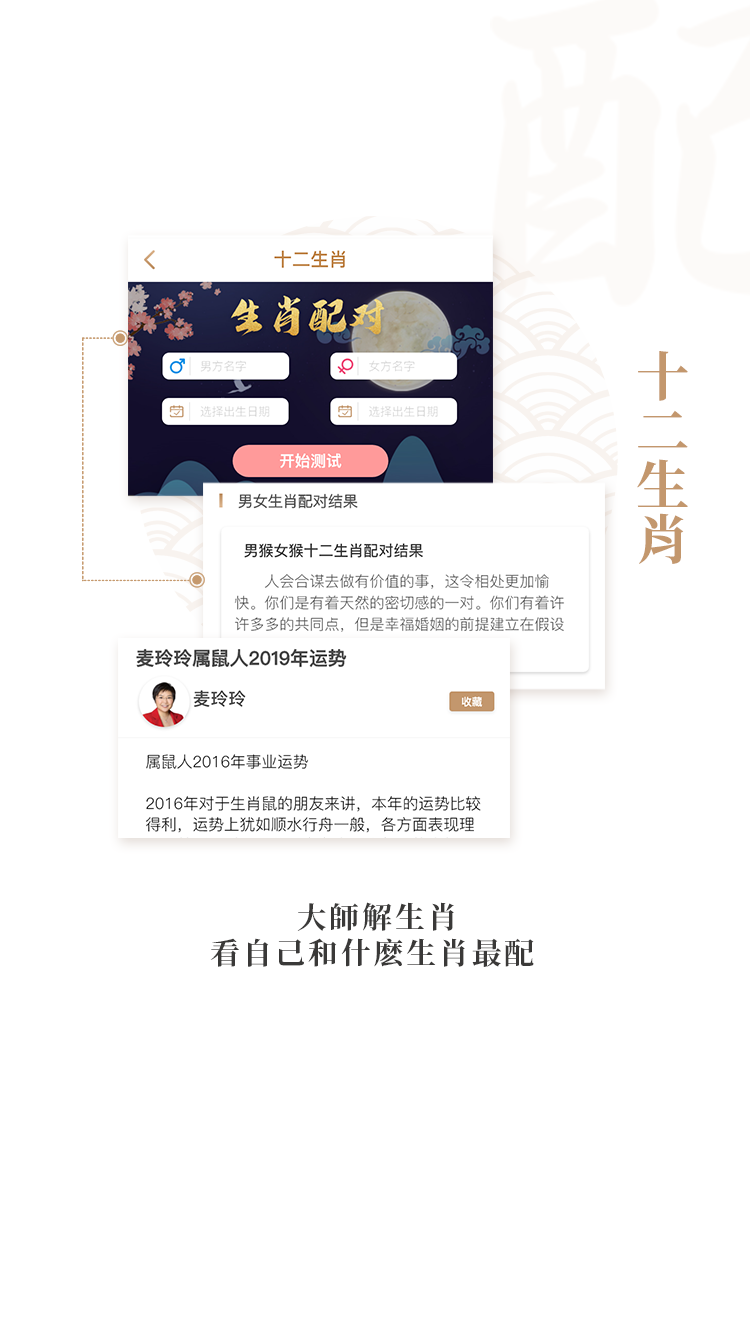
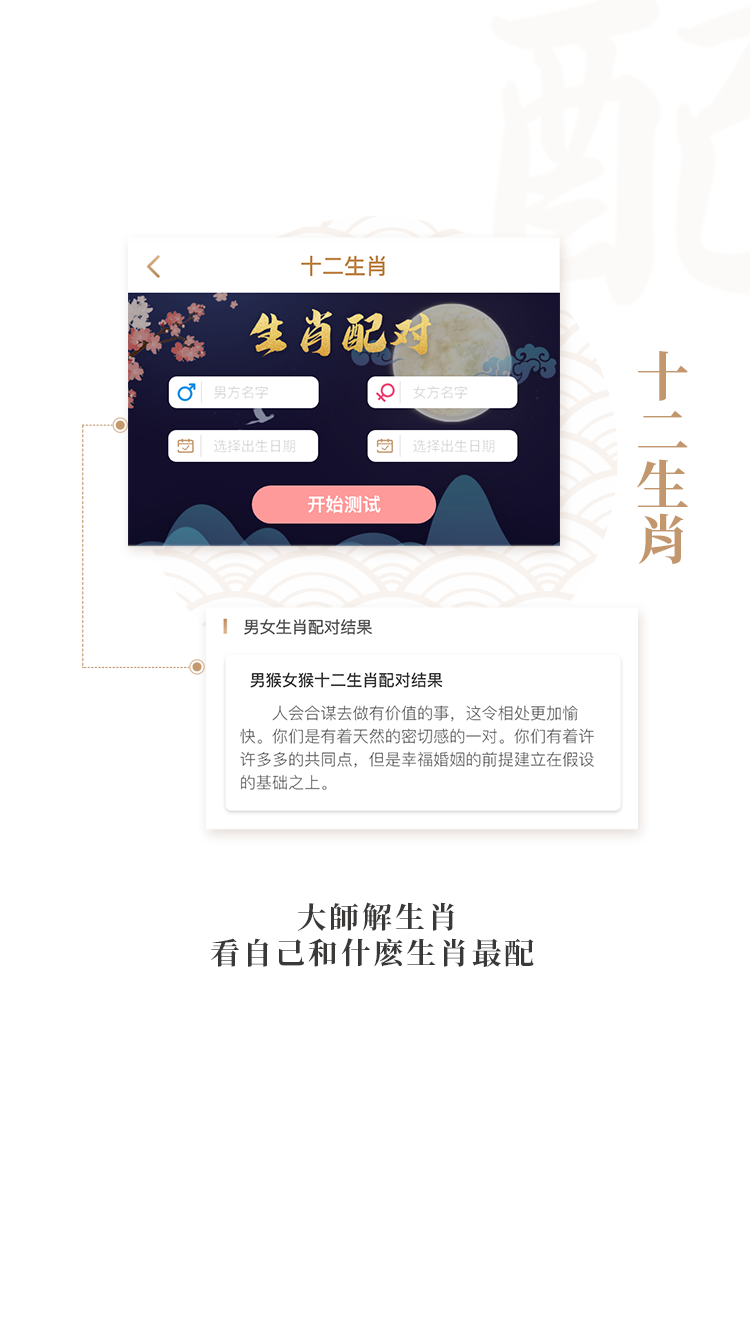
修改引导页图片和推荐的功能

Changed region(s): [[0.1533, 0.1844, 0.7973, 0.6454]]

diff --git a/src/pages/mine.vue b/src/pages/mine.vue
@@ -20,9 +20,9 @@
                 </div>
             </div>
             <div class="table">
-                <div class="table-cell recommend">
+                <div class="table-cell recommend" @click="showShare = true">
                     <i></i>
-                    <div @click="showShare = true">推荐好友</div>
+                    <div>推荐好友</div>
                 </div>
                 <div class="table-cell recruitment" @click="$jump('/main/mine/recruitment/recruitmentStep1')">
                     <i></i>
